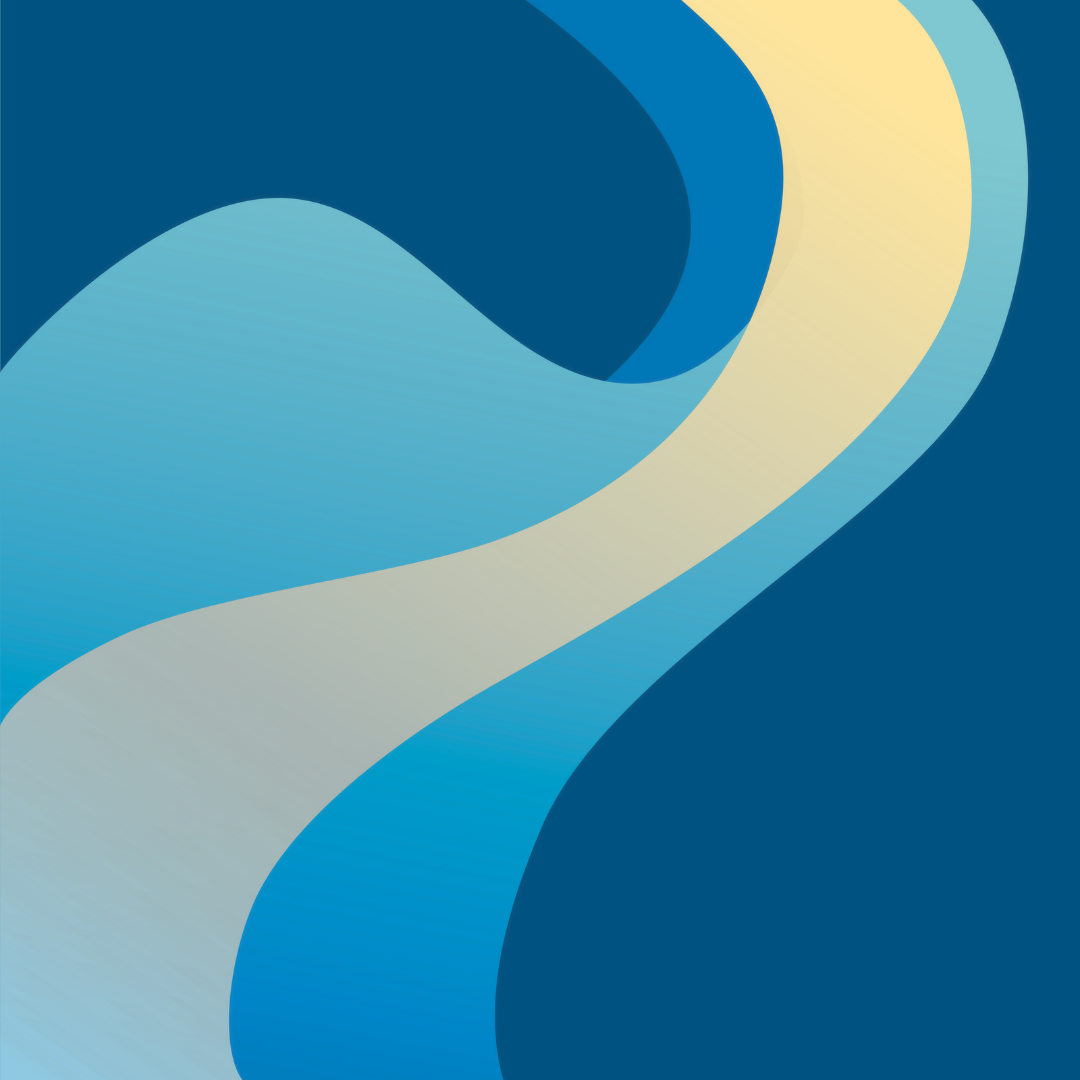
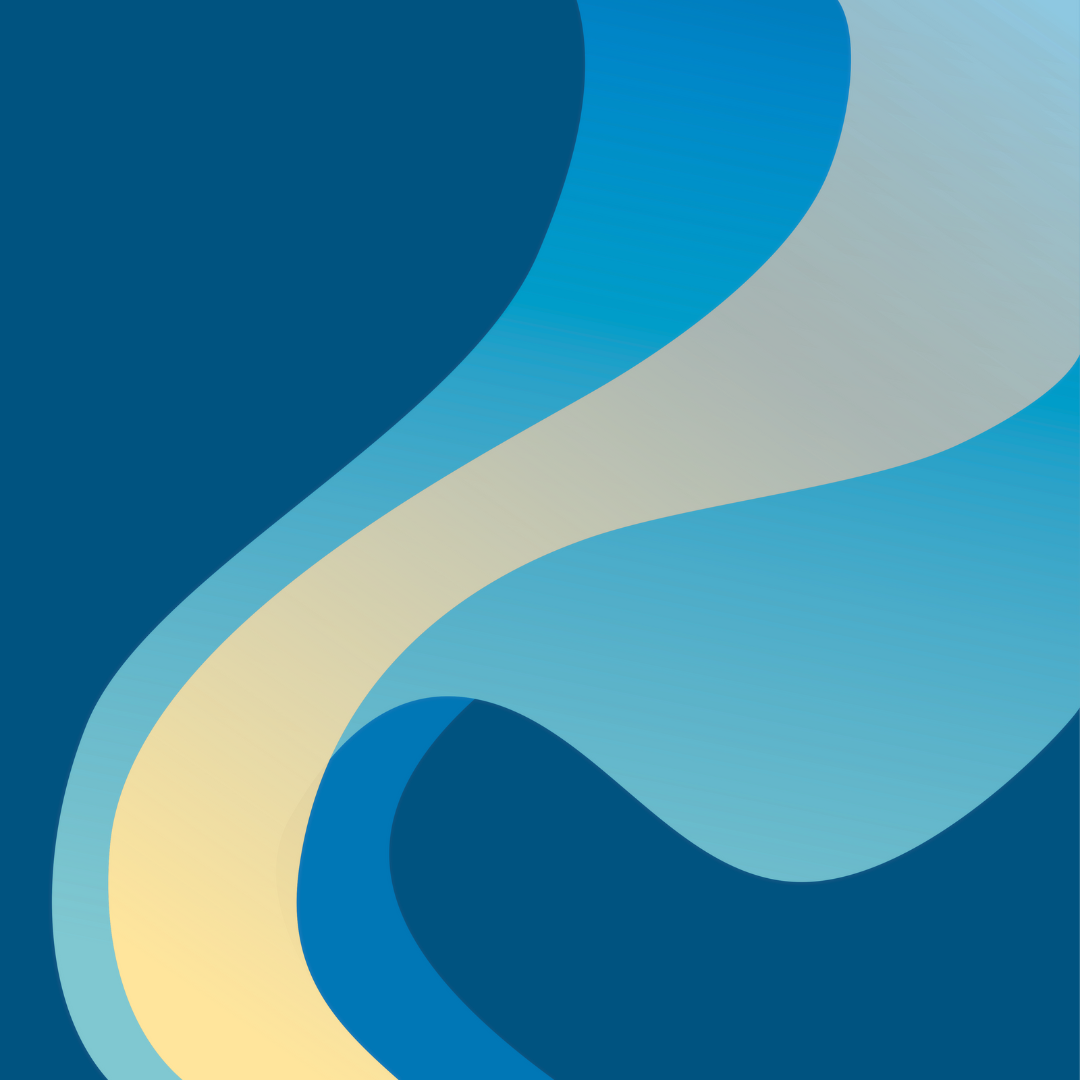
Enlarged name, correctly named background of card, and add shadow to card title

diff --git a/src/app/components/ui/InfoCard.tsx b/src/app/components/ui/InfoCard.tsx
@@ -27,8 +27,8 @@ export default function InfoCard() {
             onClick={handleRotation}
           >
             {/* Front side of card */}
-            <div className="absolute flex flex-col justify-center items-center size-full p-3 [-webkit-backface-visibility:hidden] bg-[url('/card-background-2.png')] bg-cover bg-center bg-no-repeat rounded-lg drop-shadow-2xl/40">
-              <div className="flex flex-col justify-center items-center size-full py-2 border-3 rounded-lg border-parchment text-parchment text-shadow">
+            <div className="absolute flex flex-col justify-center items-center size-full p-3 [-webkit-backface-visibility:hidden] bg-[url('/card-background.png')] bg-cover bg-center bg-no-repeat rounded-lg drop-shadow-2xl/40">
+              <div className="flex flex-col justify-center items-center size-full py-2 border-3 rounded-lg border-parchment text-parchment text-shadow-md">
                   <div className="flex-1 flex justify-center items-center">
                     <span className="text-2xl sm:text-3xl md:text-4xl text-center">Welcome to my <br/>Portfolio</span>
                   </div>
@@ -37,17 +37,17 @@ export default function InfoCard() {
             </div>
             {/* Back side of card */}
             <div className="absolute size-full p-3 [-webkit-backface-visibility:hidden] rotate-y-180 bg-indigodye rounded-lg text-parchment drop-shadow-2xl/40 text-left tracking-[0.4rem]">
-              <div className="flex flex-col justify-between items-baseline size-full p-4 sm:p-6 md:p-10 border-3 rounded-lg border-parchment text-xs sm:text-lg text-parchment">
+              <div className="flex flex-col justify-between items-baseline size-full p-4 sm:p-6 md:p-8 border-3 rounded-lg border-parchment text-parchment">
                 <div className="flex w-full flex-row justify-between items-center">
                   {/** Title and headshot */}
                   <div className="flex flex-col">
-                    <span className="text-sm sm:text-lg md:text-2xl text-pictonblue">Chan Hen</span>
-                    <span>Software Engineer</span>
+                    <span className="text-md sm:text-lg md:text-2xl text-pictonblue">Chan Hen</span>
+                    <span className="text-xs sm:text-lg">Software Engineer</span>
                   </div>
                   <div className="aspect-[1/1] w-1/4 rounded-full border-2 border-parchment bg-[url('/headshot.jpg')] bg-cover bg-center"/>
                 </div>
                 {/** Bottom Text */}
-                <div className="flex flex-col w-full">
+                <div className="flex flex-col w-full text-xs sm:text-lg">
                   <span>(952)-994-5059</span>
                   <span className="break-all">Officialchanhen@gmail.com</span>
                 </div>
